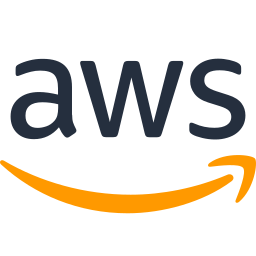
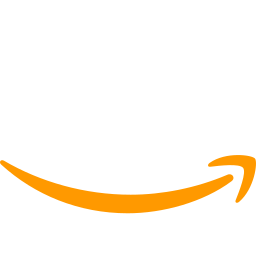
feat: add SkillProcess component with interactive steps visualization

Changed region(s): [[0.3125, 0.2188, 0.9688, 0.5625], [0.0312, 0.2188, 0.3125, 0.5625]]

diff --git a/src/components/skills/SkillsCards.jsx b/src/components/skills/SkillsCards.jsx
@@ -1,68 +1,145 @@
-import React, { useContext } from 'react'
-import { AppContext } from '../../context/datacontext';
-import reactlogo from "../../assets/images/react.png"
-import CodeIcon from '@mui/icons-material/Code';
-import GridViewIcon from '@mui/icons-material/GridView';
+import React, { useContext } from "react";
+import { AppContext } from "../../context/datacontext";
+import reactlogo from "../../assets/images/react.png";
+import Tilt from "react-parallax-tilt";
+import javascript from "../../assets/images/javascript.png";
+import css from "../../assets/images/icons8-css-256.png";
+import html from "../../assets/images/html.png";
+import tailwind from "../../assets/images/tailwind-css.png";
+import bootstrap from "../../assets/images/icons8-bootstrap-256.png";
+import sass from "../../assets/images/icons8-sass-256.png";
+import mui from "../../assets/images/icons8-material-ui-256.png";
+import nodejs from "../../assets/images/nodejs.png";
+import expresslight from "../../assets/images/express.png";
+import expressdark from "../../assets/images/icons8-express-js-256.png";
+import mongodb from "../../assets/images/mongodb (1).png";
+import git from "../../assets/images/git.png";
+import postman from "../../assets/icons_logos/postman_256.png"
+import gcp from "../../assets/images/icons8-google-cloud-256.png"
+import aws from "../../assets/images/icons8-aws-256.png"
+import adobe from "../../assets/images/adobe-illustrator.png"
+import aws_dark from "../../assets/images/aws_dark.png"
 const SkillsCards = () => {
-    const { darkMode } = useContext(AppContext);
+  const { darkMode } = useContext(AppContext);
+  const frontendIcons = [
+    { name: "React JS", img: reactlogo },
+    { name: "JavaScript", img: javascript },
+    { name: "CSS3", img: css },
+    { name: "HTML5", img: html },
+    { name: "Tailwind CSS", img: tailwind },
+    { name: "Bootstrap", img: bootstrap },
+    { name: "Sass", img: sass },
+    { name: "Material UI", img: mui },
+  ];
+  const BackendIcons = [
+    { name: "Node JS", img: nodejs },
+    { name: "Express JS", img: !darkMode ? expresslight : expressdark },
+    { name: "MongoDB", img: mongodb },
+    { name: "Git", img: git },
+  ];
+  const additionalIcons = [
+{ name: "Postman", img: postman },
+{ name: "GCP", img: gcp },
+{ name: "AWS", img: darkMode ? aws : aws_dark },
+{ name: "Adobe I", img: adobe },
 
-    return (
-        <div
-            className={`flex justify-center flex-col gap-24 items-center w-full py-20  `}
-        >
-            <h2 className="text-4xl font-bold">Frontend</h2>
-            <div className="xl:w-4/5 3xl:w-3/5 w-full xl:p-0 p-4 grid gap-6 lg:grid-cols-4 grid-cols-1  ">
-                <div
-                    className={` flex flex-col justify-between gap-5 p-4 px-8 z-[3] rounded-[20px] relative  pb-6 backdrop-blur-sm ${!darkMode
-                        ? "bg-[rgba(245,245,245,0.9)] rounded-xl shadow-[rgba(0,0,0,0.08)_0px_0.706592px_0.706592px_-0.666667px,rgba(0,0,0,0.08)_0px_1.80656px_1.80656px_-1.33333px,rgba(0,0,0,0.07)_0px_3.62176px_3.62176px_-2px,rgba(0,0,0,0.07)_0px_6.8656px_6.8656px_-2.66667px,rgba(0,0,0,0.05)_0px_13.6468px_13.6468px_-3.33333px,rgba(0,0,0,0.02)_0px_30px_30px_-4px,rgb(255,255,255)_0px_3px_1px_0px_inset]"
-                        : "bg-[#00000052] rounded-xl shadow-[0_0_8px_rgba(0,255,255,0.6)]"
-                        }`}
-
-                >cabnkcbwe</div>
-                <div
-                    className={` flex flex-col justify-between gap-5 p-4 px-8 z-[3] rounded-[20px] relative  pb-6 backdrop-blur-sm ${!darkMode
-                        ? "bg-[rgba(245,245,245,0.9)] rounded-xl shadow-[rgba(0,0,0,0.08)_0px_0.706592px_0.706592px_-0.666667px,rgba(0,0,0,0.08)_0px_1.80656px_1.80656px_-1.33333px,rgba(0,0,0,0.07)_0px_3.62176px_3.62176px_-2px,rgba(0,0,0,0.07)_0px_6.8656px_6.8656px_-2.66667px,rgba(0,0,0,0.05)_0px_13.6468px_13.6468px_-3.33333px,rgba(0,0,0,0.02)_0px_30px_30px_-4px,rgb(255,255,255)_0px_3px_1px_0px_inset]"
-                        : "bg-[#00000052] rounded-xl shadow-[0_0_8px_rgba(0,255,255,0.6)]"
-                        }`}
-
-                >cabnkcbwe</div>
-                <div
-                    className={` flex flex-col justify-between p-4 px-8 z-[3] rounded-[20px] relative  pb-6 backdrop-blur-sm ${!darkMode
-                        ? "bg-[rgba(245,245,245,0.9)] rounded-xl shadow-[rgba(0,0,0,0.08)_0px_0.706592px_0.706592px_-0.666667px,rgba(0,0,0,0.08)_0px_1.80656px_1.80656px_-1.33333px,rgba(0,0,0,0.07)_0px_3.62176px_3.62176px_-2px,rgba(0,0,0,0.07)_0px_6.8656px_6.8656px_-2.66667px,rgba(0,0,0,0.05)_0px_13.6468px_13.6468px_-3.33333px,rgba(0,0,0,0.02)_0px_30px_30px_-4px,rgb(255,255,255)_0px_3px_1px_0px_inset]"
-                        : "bg-[#00000052] rounded-xl shadow-[0_0_8px_rgba(0,255,255,0.6)]"
-                        }`}
-
-                >
-
-                    <div className='flex justify-center items-center pt-4 pb-5'>
-                        <img src={reactlogo} className='w-24 h-24' alt='react-log' />
-                    </div>
-                    <div className={`h-[1px] ${!darkMode
-                        ? "bg-[rgba(121,121,121,0.9)] rounded-xl shadow-[rgba(0,0,0,0.08)_0px_0.706592px_0.706592px_-0.666667px,rgba(0,0,0,0.08)_0px_1.80656px_1.80656px_-1.33333px,rgba(0,0,0,0.07)_0px_3.62176px_3.62176px_-2px,rgba(0,0,0,0.07)_0px_6.8656px_6.8656px_-2.66667px,rgba(0,0,0,0.05)_0px_13.6468px_13.6468px_-3.33333px,rgba(0,0,0,0.02)_0px_30px_30px_-4px,rgba(255,255,255 ,0.3)_0px_3px_1px_0px_inset]"
-                        : "bg-[#00000052] rounded-xl shadow-[0_0_8px_rgba(0,255,255,0.6)]"
-                        }`}>
-                    </div>
-                    <h3 className='flex flex-row  items-center py-3 gap-4'>
-                        <CodeIcon fontSize='30px' className='text-3xl'/> <span className='text-2xl'>
-                            React JS
-                        </span>
-                    </h3>
-                    <h3 className='flex flex-row  items-center pb-3 gap-4'>
-                        <GridViewIcon fontSize='30px' className='text-3xl'/> <span className='text-xl'>
-                          Frontend Library
-                        </span>
-                    </h3>
-                </div>
-                <div
-                    className={` flex flex-col justify-between gap-5 p-4 px-8 z-[3] rounded-[20px] relative  pb-6 backdrop-blur-sm ${!darkMode
-                        ? "bg-[rgba(245,245,245,0.9)] rounded-xl shadow-[rgba(0,0,0,0.08)_0px_0.706592px_0.706592px_-0.666667px,rgba(0,0,0,0.08)_0px_1.80656px_1.80656px_-1.33333px,rgba(0,0,0,0.07)_0px_3.62176px_3.62176px_-2px,rgba(0,0,0,0.07)_0px_6.8656px_6.8656px_-2.66667px,rgba(0,0,0,0.05)_0px_13.6468px_13.6468px_-3.33333px,rgba(0,0,0,0.02)_0px_30px_30px_-4px,rgb(255,255,255)_0px_3px_1px_0px_inset]"
-                        : "bg-[#00000052] rounded-xl shadow-[0_0_8px_rgba(0,255,255,0.6)]"
-                        }`}
-
-                >dednwubdie</div>
-            </div>
+  ]
+  return (
+    <>
+      <div
+        className={`flex justify-center flex-col gap-24 items-center w-full py-20  `}
+      >
+        <h2 className="text-4xl font-bold">Frontend Tech</h2>
+        <div className="xl:w-4/5 3xl:w-3/5 w-full xl:p-0 p-4 grid gap-6 lg:grid-cols-4 grid-cols-2  ">
+          {frontendIcons.map((icon, index) => (
+            <Tilt
+              key={index}
+              className={`background-stripes parallax-effect-glare-scale  flex flex-col justify-between gap-5 pt-4 z-[3] rounded-[20px] relative  md:pb-2 backdrop-blur-sm ${
+                !darkMode
+                  ? "bg-[rgba(245,245,245,0.9)] rounded-xl shadow-[rgba(0,0,0,0.08)_0px_0.706592px_0.706592px_-0.666667px,rgba(0,0,0,0.08)_0px_1.80656px_1.80656px_-1.33333px,rgba(0,0,0,0.07)_0px_3.62176px_3.62176px_-2px,rgba(0,0,0,0.07)_0px_6.8656px_6.8656px_-2.66667px,rgba(0,0,0,0.05)_0px_13.6468px_13.6468px_-3.33333px,rgba(0,0,0,0.02)_0px_30px_30px_-4px,rgb(255,255,255)_0px_3px_1px_0px_inset]"
+                  : "bg-[#00000052] rounded-xl shadow-[0_0_8px_rgba(0,255,255,0.6)]"
+              }`}
+              perspective={500}
+              glareEnable={true}
+              glareMaxOpacity={0.45}
+              scale={1.02}
+            >
+              <div className="inner-element flex justify-center items-center">
+                <img src={icon.img} className=" w-20" alt="react-logo" />
+              </div>
+              <h3 className="py-3 text-center md:text-2xl xl:text-3xl text-xl">
+                {icon.name}
+              </h3>
+            </Tilt>
+          ))}
         </div>
-    )
-}
+      </div>
+      <div
+        className={`flex justify-center flex-col gap-24 items-center w-full py-20  `}
+      >
+        <h2 className="text-4xl font-bold">Backend Tech</h2> 
+        <div className="xl:w-4/5 3xl:w-3/5 w-full xl:p-0 p-4 grid gap-6 lg:grid-cols-4 grid-cols-2  ">
+          {BackendIcons.map((icon, index) => (
+            <Tilt
+              key={index}
+              className={`background-stripes parallax-effect-glare-scale  flex flex-col justify-between gap-5 pt-4 z-[3] rounded-[20px] relative  md:pb-4 backdrop-blur-sm ${
+                !darkMode
+                  ? "bg-[rgba(245,245,245,0.9)] rounded-xl shadow-[rgba(0,0,0,0.08)_0px_0.706592px_0.706592px_-0.666667px,rgba(0,0,0,0.08)_0px_1.80656px_1.80656px_-1.33333px,rgba(0,0,0,0.07)_0px_3.62176px_3.62176px_-2px,rgba(0,0,0,0.07)_0px_6.8656px_6.8656px_-2.66667px,rgba(0,0,0,0.05)_0px_13.6468px_13.6468px_-3.33333px,rgba(0,0,0,0.02)_0px_30px_30px_-4px,rgb(255,255,255)_0px_3px_1px_0px_inset]"
+                  : "bg-[#00000052] rounded-xl shadow-[0_0_8px_rgba(0,255,255,0.6)]"
+              }`}
+              perspective={500}
+              glareEnable={true}
+              glareMaxOpacity={0.45}
+              scale={1.02}
+            >
+              <div className="inner-element flex justify-center items-center">
+                <img
+                  src={icon.img}
+                  className="md:w-24 md:h-24 w-20"
+                  alt="react-logo"
+                />
+              </div>
+              <h3 className="py-3 text-center md:text-2xl xl:text-3xl text-xl">
+                {icon.name}
+              </h3>
+            </Tilt>
+          ))}
+        </div>
+      </div>
+      <div
+        className={`flex justify-center flex-col gap-24 items-center w-full py-20  `}
+      >
+        <h2 className="text-4xl font-bold">Additional Tools</h2>
+        <div className="xl:w-4/5 3xl:w-3/5 w-full xl:p-0 p-4 grid gap-6 lg:grid-cols-4 grid-cols-2  ">
+          {additionalIcons.map((icon, index) => (
+            <Tilt
+              key={index}
+              className={`background-stripes parallax-effect-glare-scale  flex flex-col justify-between gap-5 pt-4 z-[3] rounded-[20px] relative  md:pb-4 backdrop-blur-sm ${
+                !darkMode
+                  ? "bg-[rgba(245,245,245,0.9)] rounded-xl shadow-[rgba(0,0,0,0.08)_0px_0.706592px_0.706592px_-0.666667px,rgba(0,0,0,0.08)_0px_1.80656px_1.80656px_-1.33333px,rgba(0,0,0,0.07)_0px_3.62176px_3.62176px_-2px,rgba(0,0,0,0.07)_0px_6.8656px_6.8656px_-2.66667px,rgba(0,0,0,0.05)_0px_13.6468px_13.6468px_-3.33333px,rgba(0,0,0,0.02)_0px_30px_30px_-4px,rgb(255,255,255)_0px_3px_1px_0px_inset]"
+                  : "bg-[#00000052] rounded-xl shadow-[0_0_8px_rgba(0,255,255,0.6)]"
+              }`}
+              perspective={500}
+              glareEnable={true}
+              glareMaxOpacity={0.45}
+              scale={1.02}
+            >
+              <div className="inner-element flex justify-center items-center">
+                <img
+                  src={icon.img}
+                  className="md:w-24 md:h-24 w-20"
+                  alt="react-logo"
+                />
+              </div>
+              <h3 className="py-3 text-center md:text-2xl xl:text-3xl text-xl">
+                {icon.name}
+              </h3>
+            </Tilt>
+          ))}
+        </div>
+      </div>
+    </>
+  );
+};
 
-export default SkillsCards
+export default SkillsCards;

diff --git a/src/components/skills/SkillProcess.jsx b/src/components/skills/SkillProcess.jsx
@@ -1,0 +1,98 @@
+import React, { useContext, useEffect, useState } from "react";
+import { motion } from "framer-motion";
+
+import { AppContext } from "../../context/datacontext";
+const steps = [
+  { label: "Discovery", size: 180, sxsize: 100 },
+  { label: "Definition", size: 260, sxsize: 120 },
+  { label: "Development", size: 300, sxsize: 140 },
+  { label: "Delivery", size: 160, sxsize: 80 },
+];
+
+const SkillProcess = () => {
+  const { darkMode } = useContext(AppContext);
+  const [hovered, setHovered] = useState(null);
+  const [mouse, setMouse] = useState({ x: 0, y: 0 });
+
+  const handleMouseMove = (e, index) => {
+    const rect = e.currentTarget.getBoundingClientRect();
+    const x = e.clientX - (rect.left + rect.width / 2);
+    const y = e.clientY - (rect.top + rect.height / 2);
+    setHovered(index);
+    setMouse({ x, y });
+  };
+
+  const handleLeave = () => {
+    setHovered(null);
+    setMouse({ x: 0, y: 0 });
+  };
+  function useWindowWidth() {
+    const [width, setWidth] = useState(window.innerWidth);
+
+    useEffect(() => {
+      const handleResize = () => setWidth(window.innerWidth);
+      window.addEventListener("resize", handleResize);
+      return () => window.removeEventListener("resize", handleResize);
+    }, []);
+
+    return width;
+  }
+  const width = useWindowWidth();
+  return (
+    <div className="relative w-full max-w-3xl mx-auto my-20">
+      <h2 className="text-4xl font-bold text-center  pb-36">The Process</h2>
+      <div className="grid grid-cols-4 items-end text-center">
+        {steps.map((step, i) => (
+          <div
+            key={i}
+            className="flex flex-col items-center justify-center relative group"
+          >
+            <div
+              className={`absolute left-1/2 w-1  bottom-8 bg-transparent md:h-[400px] h-[300px] border-l-[2px] border-dashed ${
+                darkMode ? "border-[#ffffff4f]" : "border-[#0000004f]"
+              } `}
+            ></div>
+            <motion.div
+              className={`rounded-full border z-[1] hover:cursor-grab  backdrop-blur-sm ${
+                !darkMode
+                  ? "bg-[rgba(245,245,245,0.9)] shadow-[rgba(0,0,0,0.08)_0px_0.706592px_0.706592px_-0.666667px,rgba(0,0,0,0.08)_0px_1.80656px_1.80656px_-1.33333px,rgba(0,0,0,0.07)_0px_3.62176px_3.62176px_-2px,rgba(0,0,0,0.07)_0px_6.8656px_6.8656px_-2.66667px,rgba(0,0,0,0.05)_0px_13.6468px_13.6468px_-3.33333px,rgba(0,0,0,0.02)_0px_30px_30px_-4px,rgb(255,255,255)_0px_3px_1px_0px_inset]"
+                  : "bg-[#00000052]  shadow-[0_0_8px_rgba(0,255,255,0.6)]"
+              }`}
+              style={{
+                width: width > 766 ? step.size : step.sxsize,
+                height: width > 766 ? step.size : step.sxsize,
+              }}
+              onMouseMove={(e) => handleMouseMove(e, i)}
+              onMouseLeave={handleLeave}
+              animate={
+                hovered === i
+                  ? { x: mouse.x * 0.4, y: mouse.y * 0.4, scale: 0.9 }
+                  : { x: 0, y: 0 }
+              }
+              transition={{ type: "spring", stiffness: 120, damping: 10 }}
+            />
+            {darkMode ? (
+              <span
+                className={`mt-20  font-medium md:text-xl text-sm font-heading ${
+                  hovered === i ? "text-white" : "text-gray-400"
+                } `}
+              >
+                {step.label}
+              </span>
+            ) : (
+              <span
+                className={`mt-20  font-medium md:text-xl text-sm font-heading ${
+                  hovered === i ? "text-[#ff7700]" : "text-black"
+                } `}
+              >
+                {step.label}
+              </span>
+            )}
+          </div>
+        ))}
+      </div>
+    </div>
+  );
+};
+
+export default SkillProcess;

diff --git a/src/components/home/HomeScrollSkills.jsx b/src/components/home/HomeScrollSkills.jsx
@@ -24,10 +24,7 @@ const MarqueeRow = ({ items = [], direction = "left", baseSpeed = 0.08 }) => {
     const pos = useRef(0);
     const [oneSetWidth, setOneSetWidth] = useState(0);
     const { darkMode } = useContext(AppContext);
-
-    // speed factor state (boosts when scrolling)
     const boost = useRef(1);
-
     useEffect(() => {
         const el = containerRef.current;
         if (!el) return;
@@ -36,7 +33,6 @@ const MarqueeRow = ({ items = [], direction = "left", baseSpeed = 0.08 }) => {
         };
         requestAnimationFrame(measure);
         window.addEventListener("resize", measure);
-
         // Listen to scroll wheel
         const handleWheel = (e) => {
             const dirFactor = direction === "left" ? -1 : 1;
@@ -47,7 +43,6 @@ const MarqueeRow = ({ items = [], direction = "left", baseSpeed = 0.08 }) => {
             }
         };
         window.addEventListener("wheel", handleWheel, { passive: true });
-
         return () => {
             window.removeEventListener("resize", measure);
             window.removeEventListener("wheel", handleWheel);
@@ -69,16 +64,13 @@ const MarqueeRow = ({ items = [], direction = "left", baseSpeed = 0.08 }) => {
                 boost.current = 1;
             }
         }
-
         const move = speed * delta;
         pos.current += move;
-
         if (pos.current <= -oneSetWidth) {
             pos.current += oneSetWidth;
         } else if (pos.current > 0) {
             pos.current -= oneSetWidth;
         }
-
         containerRef.current.style.transform = `translateX(${pos.current}px)`;
     });
 

diff --git a/src/pages/skills/SkillsPage.jsx b/src/pages/skills/SkillsPage.jsx
@@ -2,20 +2,21 @@ import React, { useEffect } from "react";
 import SkillBanner from "../../components/skills/SkillBanner";
 import SkillsAbout from "../../components/skills/SkillsAbout";
 import SkillsCards from "../../components/skills/SkillsCards";
-import GsapScrollCarousel from "../../components/skills/SkillsCarousel";
+import SkillProcess from "../../components/skills/SkillProcess";
 const SkillsPage = () => {
   useEffect(() => {
     window.scrollTo({
       top: 0,
-      behavior: "smooth"
-    })
-  }, [])
+      behavior: "smooth",
+    });
+  }, []);
   return (
     <div>
       <SkillBanner />
       <SkillsAbout />
       <SkillsCards />
-      <GsapScrollCarousel />
+      <SkillProcess />
+      {/* <GsapScrollCarousel /> */}
     </div>
   );
 };

diff --git a/src/components/home/ScrollSKills.jsx b/src/components/home/ScrollSKills.jsx
@@ -1,3 +1,4 @@
+/* eslint-disable no-unused-vars */
 import React, { useEffect, useRef } from "react";
 import gsap from "gsap";
 import { ScrollTrigger } from "gsap/ScrollTrigger";
@@ -31,7 +32,7 @@ export default function ScrollSkills() {
         trigger = ScrollTrigger.create({
           trigger: mainRef.current,
           start: "top 50%", // Start pinning at top
-          end: `bottom ${window.innerWidth < 500 ? "60%" : "80%"} `, // End when container bottom reaches viewport bottom
+          end: `bottom ${window.innerWidth < 500 ? "60%" : "70%"} `, // End when container bottom reaches viewport bottom
           pin: listRef.current,
           pinSpacing: false,
         });
